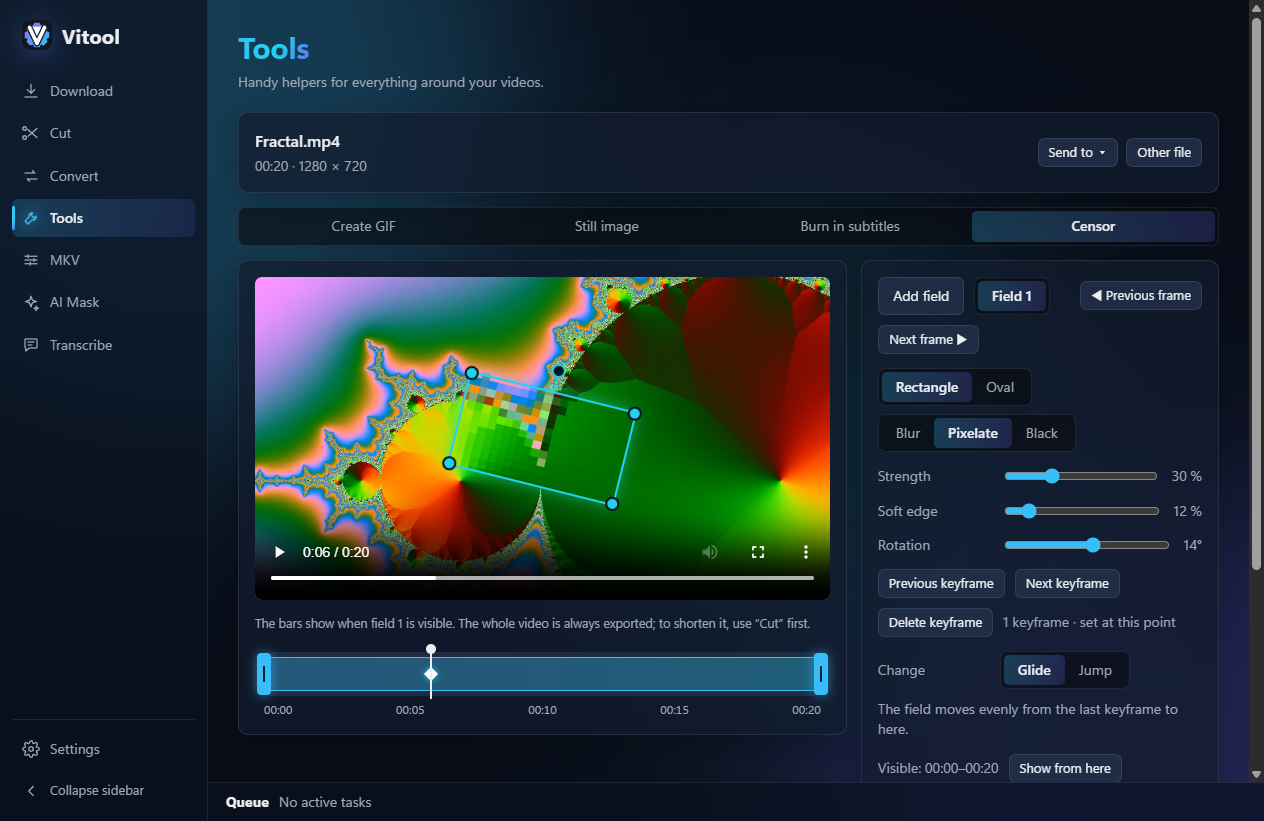
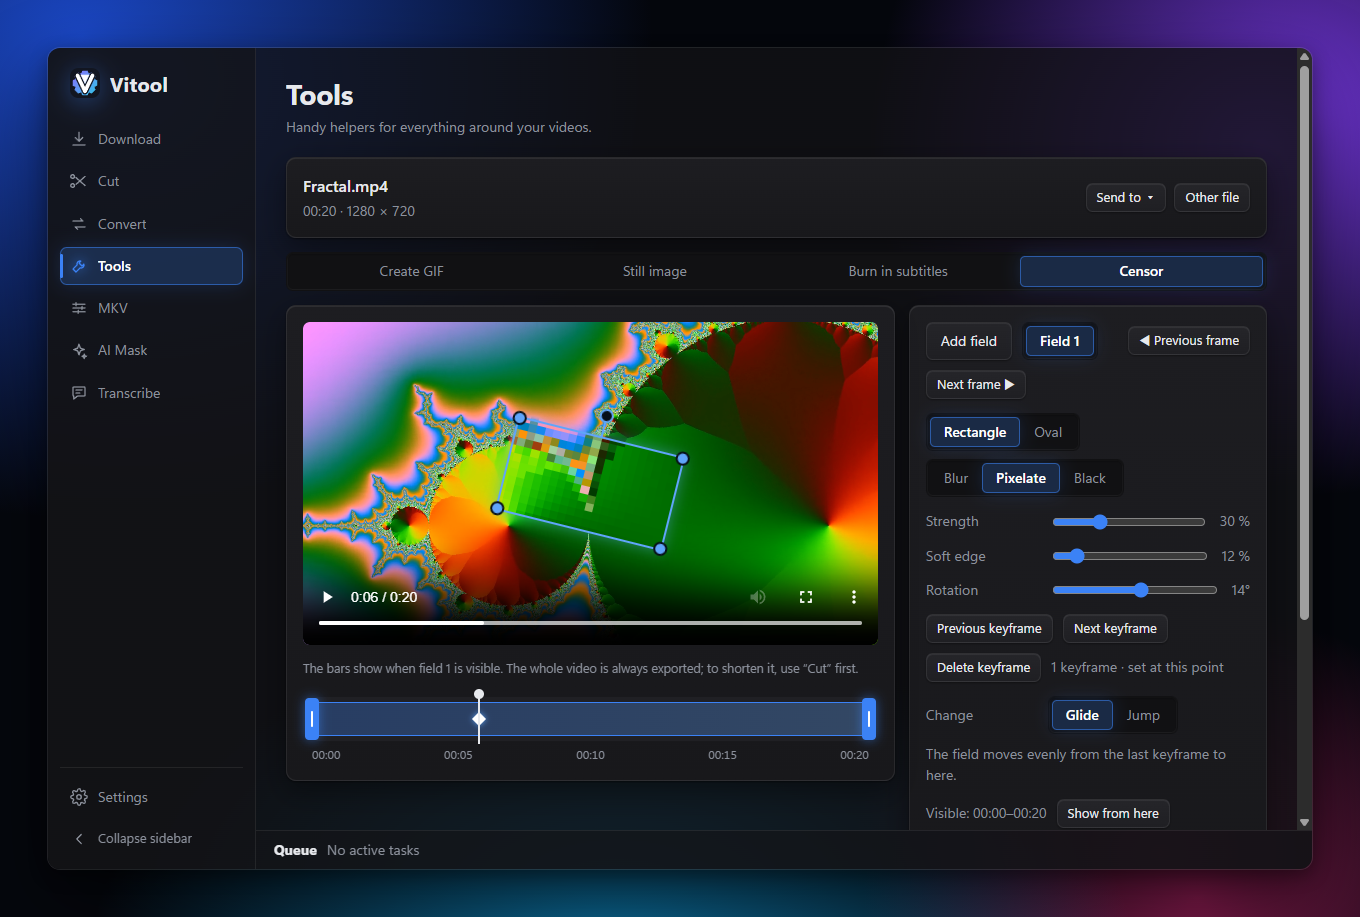
Studio as default theme with a subtle glass effect
- New Studio theme: neutral dark grey, one blue accent, depth from light edges and shadows
- Studio is the default for everyone who has not picked a theme yet
- Subtle glass effect on Windows 11 (Acrylic), on by default and can be turned off in the settings
- Page titles plain in all themes, without gradient
- Theme picker fits seven themes in one row
- README screenshots retaken in Studio, as a window on a colored background

diff --git a/src/renderer/styles/themes.css b/src/renderer/styles/themes.css
@@ -1,6 +1,126 @@
 /* Farbschemata. Die Grundwerte in theme.css und effects.css sind Aurora, hier stehen die Abweichungen.
-   Standard für neue Nutzer ist Ozean (DEFAULT_THEME in src/renderer/utils/themes.js).
+   Standard für neue Nutzer ist Studio (DEFAULT_THEME in src/renderer/utils/themes.js).
    Neue Themes: Block anlegen und in src/renderer/utils/themes.js eintragen. */
+
+/* Studio, der Standard: fast schwarz, feine Linien, eine blaue Akzentfarbe.
+   Keine Farbverläufe und kein Leuchten, Hervorhebungen nur durch Akzent und Lichtkante. */
+:root[data-theme='studio'] {
+  --bg: #111113;
+  --surface: #18181b;
+  --surface-2: #202024;
+  --border: rgba(255, 255, 255, 0.075);
+  --line: #ffffff;
+  --well: #131315;
+  --chrome: #141416;
+  --menu: #1b1b1f;
+  --text: #e7e9ed;
+  --muted: #8c919c;
+  --accent: #3b82f6;
+  --accent-text: #ffffff;
+  --accent-2: #60a5fa;
+  --accent-3: #3b82f6;
+  --on-accent: #ffffff;
+  --accent-soft: color-mix(in srgb, #3b82f6 16%, transparent);
+  --gradient: linear-gradient(var(--accent), var(--accent));
+  --glow: 0 1px 0 rgba(255, 255, 255, 0.12) inset;
+}
+
+/* Statt bunter Farbflächen nur ein schwacher blauer Schein oben. */
+:root[data-theme='studio'] .aurora {
+  display: none;
+}
+
+:root[data-theme='studio'] body {
+  background: radial-gradient(1100px 420px at 75% -12%, rgba(59, 130, 246, 0.07), transparent 70%), var(--bg);
+}
+
+/* Drei Ebenen für Tiefe: Erhöhte Flächen sind heller, mit Lichtkante und Schatten.
+   Eingaben liegen dunkler und eingelassen darin. Hervorgehobenes trägt eine klare blaue Fläche. */
+:root[data-theme='studio'] {
+  --raised: linear-gradient(180deg, #1d1d21 0%, #18181b 100%);
+  --raised-edge: inset 0 1px 0 rgba(255, 255, 255, 0.07);
+  --raised-shadow: 0 1px 2px rgba(0, 0, 0, 0.5), 0 10px 28px rgba(0, 0, 0, 0.38);
+  --sunken: #111113;
+  --sunken-edge: inset 0 1px 2px rgba(0, 0, 0, 0.55), inset 0 0 0 1px rgba(255, 255, 255, 0.05);
+  --highlight: color-mix(in srgb, #3b82f6 22%, transparent);
+  --highlight-edge: inset 0 0 0 1px color-mix(in srgb, #3b82f6 55%, transparent), 0 0 18px color-mix(in srgb, #3b82f6 18%, transparent);
+}
+
+:root[data-theme='studio'] .card,
+:root[data-theme='studio'] .dropzone,
+:root[data-theme='studio'] .feature-card,
+:root[data-theme='studio'] .theme-tile {
+  backdrop-filter: none;
+  background: var(--raised);
+  box-shadow: var(--raised-edge), var(--raised-shadow);
+}
+
+:root[data-theme='studio'] .feature-card.action:hover,
+:root[data-theme='studio'] .theme-tile:hover {
+  border-color: color-mix(in srgb, #3b82f6 45%, transparent);
+  box-shadow: var(--raised-edge), 0 14px 34px rgba(0, 0, 0, 0.45), 0 0 0 1px color-mix(in srgb, #3b82f6 25%, transparent);
+}
+
+:root[data-theme='studio'] .sidebar,
+:root[data-theme='studio'] .queue {
+  backdrop-filter: none;
+}
+
+/* Vertieft: Eingaben, Auswahlfelder und Umschalter. */
+:root[data-theme='studio'] .input,
+:root[data-theme='studio'] .segments {
+  background: var(--sunken);
+  border-color: transparent;
+  box-shadow: var(--sunken-edge);
+}
+
+/* Hervorgehoben: aktiver Bereich, gewählte Option, gewähltes Theme. */
+:root[data-theme='studio'] .nav-item.active {
+  background: var(--highlight);
+  box-shadow: var(--highlight-edge);
+  color: #ffffff;
+}
+
+:root[data-theme='studio'] .nav-item.active svg {
+  color: #93c5fd;
+}
+
+:root[data-theme='studio'] .segment.active {
+  background: var(--highlight);
+  box-shadow: var(--highlight-edge);
+  color: #ffffff;
+}
+
+:root[data-theme='studio'] .theme-tile.active {
+  border-color: #3b82f6;
+  box-shadow: var(--raised-edge), var(--highlight-edge);
+}
+
+:root[data-theme='studio'] .button.primary {
+  box-shadow: inset 0 1px 0 rgba(255, 255, 255, 0.28), 0 6px 18px color-mix(in srgb, #3b82f6 35%, transparent);
+}
+
+:root[data-theme='studio'] .button.primary:hover:not(:disabled) {
+  box-shadow: inset 0 1px 0 rgba(255, 255, 255, 0.32), 0 8px 24px color-mix(in srgb, #3b82f6 45%, transparent);
+  filter: brightness(1.08);
+}
+
+:root[data-theme='studio'] .button:not(.primary) {
+  background: linear-gradient(180deg, #252529, #1f1f23);
+  box-shadow: inset 0 1px 0 rgba(255, 255, 255, 0.06), 0 1px 2px rgba(0, 0, 0, 0.4);
+}
+
+:root[data-theme='studio'] .drop-icon {
+  background: var(--highlight);
+  box-shadow: var(--highlight-edge);
+  color: #93c5fd;
+}
+
+:root[data-theme='studio'] .dropzone:hover,
+:root[data-theme='studio'] .dropzone.over {
+  border-color: color-mix(in srgb, #3b82f6 55%, transparent);
+  box-shadow: var(--raised-edge), var(--raised-shadow), 0 0 0 1px color-mix(in srgb, #3b82f6 25%, transparent);
+}
 
 :root[data-theme='ocean'] {
   --bg: #080d18;
@@ -77,4 +197,24 @@
 
 :root[data-theme='light'] .aurora span {
   opacity: 0.14;
+}
+
+/* Dezenter Glas-Effekt: Das Fenster liefert unter Windows 11 "Mica", also das weichgezeichnete
+   Hintergrundbild. Durchlässig sind nur der Seitenhintergrund und die Leisten, und auch die nur
+   zu einem kleinen Teil. Karten, Eingaben und Video bleiben fest, damit nichts unruhig wird. */
+:root[data-glass] {
+  background: transparent;
+}
+
+:root[data-glass] body {
+  background: color-mix(in srgb, var(--bg) 66%, transparent);
+}
+
+:root[data-glass] .aurora {
+  display: none;
+}
+
+:root[data-glass] .sidebar,
+:root[data-glass] .queue {
+  background: color-mix(in srgb, var(--chrome) 62%, transparent);
 }

diff --git a/src/main/main.js b/src/main/main.js
@@ -1,7 +1,7 @@
 // Startpunkt der App: öffnet das Fenster und verbindet Oberfläche und Hintergrund.
 const path = require('path');
 const fs = require('fs/promises');
-const { app, BrowserWindow, dialog, ipcMain, shell } = require('electron');
+const { app, BrowserWindow, dialog, ipcMain, nativeTheme, shell } = require('electron');
 
 const { Store } = require('./core/store');
 const { JobQueue } = require('./core/job-queue');
@@ -32,6 +32,11 @@ const features = [
 ];
 
 let win = null;
+
+// Glas ist Standard. Nur wer es ausdrücklich abschaltet, bekommt das feste Fenster.
+function glassOn(value) {
+  return value !== false && value !== 'off';
+}
 
 function createWindow() {
   win = new BrowserWindow({
@@ -93,7 +98,7 @@ app.whenReady().then(() => {
 
   ipcMain.on('i18n:get', (event) => {
     // Das Farbschema kommt gleich mit, damit beim Start nichts im falschen Design aufblitzt.
-    event.returnValue = { language: currentLanguage(), strings: translations(), languages: LANGUAGES, theme: store.get('settings').theme ?? 'ocean' };
+    event.returnValue = { language: currentLanguage(), strings: translations(), languages: LANGUAGES, theme: store.get('settings').theme ?? 'studio', glass: glassOn(store.get('settings').glass) };
   });
   // Ein Sprachwechsel startet Vitool neu, damit wirklich jeder Text in der neuen Sprache erscheint.
   ipcMain.handle('app:setLanguage', (_event, language) => {
@@ -102,6 +107,16 @@ app.whenReady().then(() => {
     if (queue.list().some((job) => job.status === 'running' || job.status === 'queued')) return { ok: true, restartLater: true };
     app.relaunch();
     app.exit(0);
+    return { ok: true };
+  });
+  // Glas unter Windows 11: "Acrylic" zeigt die Fenster hinter Vitool verschwommen.
+  // Windows tönt es hell oder dunkel, passend zum Theme.
+  ipcMain.handle('app:setGlass', (_event, on, light = false) => {
+    store.set('settings', { ...store.get('settings'), glass: Boolean(on) });
+    if (!win || process.platform !== 'win32') return { ok: false };
+    nativeTheme.themeSource = on ? (light ? 'light' : 'dark') : 'system';
+    win.setBackgroundColor(on ? '#00000000' : '#101216');
+    win.setBackgroundMaterial(on ? 'acrylic' : 'none');
     return { ok: true };
   });
   ipcMain.handle('app:restart', () => {

diff --git a/src/renderer/pages/settings.js b/src/renderer/pages/settings.js
@@ -1,7 +1,7 @@
 // Bereich Einstellungen: Sprache, Standard-Download-Ordner und Infos zu Vitool.
 import { el, pageHeader } from '../utils/dom.js';
 import { t, LANGUAGE } from '../utils/i18n.js';
-import { THEMES, applyTheme } from '../utils/themes.js';
+import { THEMES, applyTheme, applyGlass } from '../utils/themes.js';
 import { showLicenses } from '../components/license-dialog.js';
 
 const invoke = (...args) => window.vitool.invoke(...args);
@@ -32,6 +32,8 @@ async function changeLanguage(language) {
 // Ein Theme wirkt sofort, ohne Neustart.
 async function chooseTheme(id) {
   const theme = applyTheme(id);
+  // Mit Glas muss Windows erfahren, ob das neue Theme hell oder dunkel ist.
+  if (document.documentElement.hasAttribute('data-glass')) applyGlass(true);
   parts.themes.forEach((tile) => {
     const active = tile.dataset.theme === theme;
     tile.classList.toggle('active', active);
@@ -159,6 +161,11 @@ function buildPage(root) {
     tools: el('div', { class: 'stack' }),
     update: el('div', { class: 'stack' }),
     licenseRoot: el('div', {}),
+    glass: el('input', {
+      type: 'checkbox',
+      checked: document.documentElement.hasAttribute('data-glass'),
+      onchange: (event) => applyGlass(event.target.checked),
+    }),
     language: el('select', {
       class: 'input',
       'aria-label': t('Sprache'),
@@ -184,6 +191,8 @@ function buildPage(root) {
     el('section', { class: 'card stack' },
       el('h2', {}, t('Design')),
       el('div', { class: 'theme-grid', role: 'group', 'aria-label': t('Farbschema') }, ...parts.themes),
+      el('label', { class: 'check' }, parts.glass, el('span', {}, t('Glas-Effekt'))),
+      el('p', { class: 'muted' }, t('Was hinter Vitool liegt, schimmert leicht durch den Hintergrund. Nur unter Windows 11.')),
     ),
     el('section', { class: 'card stack' },
       el('h2', {}, t('Downloads')),

diff --git a/src/renderer/utils/themes.js b/src/renderer/utils/themes.js
@@ -3,6 +3,7 @@
 import { t } from './i18n.js';
 
 export const THEMES = [
+  { id: 'studio', name: 'Studio', colors: ['#111113', '#3b82f6', '#60a5fa', '#e7e9ed'] },
   { id: 'ocean', name: t('Ozean'), colors: ['#080d18', '#38bdf8', '#22d3ee', '#6366f1'] },
   { id: 'aurora', name: 'Aurora', colors: ['#0b0e14', '#3ddc97', '#2fc6e8', '#8b6cff'] },
   { id: 'sunset', name: t('Sonnenuntergang'), colors: ['#120b10', '#fb923c', '#f472b6', '#a855f7'] },
@@ -11,8 +12,14 @@ export const THEMES = [
   { id: 'light', name: t('Hell'), colors: ['#eef1f6', '#0d9f6e', '#0891b2', '#7c3aed'] },
 ];
 
-// Ozean ist der Standard für alle, die noch kein Theme gewählt haben.
-export const DEFAULT_THEME = 'ocean';
+// Studio ist der Standard für alle, die noch kein Theme gewählt haben.
+export const DEFAULT_THEME = 'studio';
+
+// Glas: Die Seite lässt ihren Hintergrund leicht durchscheinen, das Fenster liefert Acrylic.
+export function applyGlass(on) {
+  document.documentElement.toggleAttribute('data-glass', on);
+  window.vitool.invoke('app:setGlass', on, document.documentElement.dataset.theme === 'light');
+}
 
 export function applyTheme(id) {
   const theme = THEMES.some((entry) => entry.id === id) ? id : DEFAULT_THEME;

diff --git a/src/renderer/styles/effects.css b/src/renderer/styles/effects.css
@@ -148,14 +148,12 @@ body {
   margin-bottom: 20px;
 }
 
+/* Schlicht in Schriftfarbe: Ein Farbverlauf im Titel wirkte zu verspielt. */
 .page-header h1 {
-  background: var(--gradient);
-  -webkit-background-clip: text;
-  background-clip: text;
-  color: transparent;
-  font-size: 30px;
-  font-weight: 750;
-  letter-spacing: -0.4px;
+  color: var(--text);
+  font-size: 28px;
+  font-weight: 650;
+  letter-spacing: -0.3px;
   margin: 0 0 2px;
   width: fit-content;
 }
@@ -345,7 +343,7 @@ body {
 .theme-grid {
   display: grid;
   gap: 10px;
-  grid-template-columns: repeat(auto-fill, minmax(130px, 1fr));
+  grid-template-columns: repeat(auto-fill, minmax(108px, 1fr));
 }
 
 .theme-tile {

diff --git a/src/renderer/app.js b/src/renderer/app.js
@@ -14,9 +14,10 @@ import { el, icon } from './utils/dom.js';
 import { setupSidebar } from './components/sidebar.js';
 import { ICONS } from './utils/icons.js';
 import { setNavigator } from './utils/navigation.js';
-import { applyTheme } from './utils/themes.js';
+import { applyTheme, applyGlass } from './utils/themes.js';
 
 applyTheme(window.vitool.i18n.theme);
+if (window.vitool.i18n.glass) applyGlass(true);
 
 // Neue Bereiche: Seite anlegen und hier eintragen.
 const pages = [downloadPage, cutPage, convertPage, toolsPage, mkvPage, aiPage, transcribePage, settingsPage];

diff --git a/src/main/preload.js b/src/main/preload.js
@@ -71,6 +71,7 @@ const INVOKE_CHANNELS = [
   'app:restart',
   'app:info',
   'app:licenses',
+  'app:setGlass',
 ];
 
 const EVENT_CHANNELS = ['queue:update', 'download:historyChanged', 'app:openInCut', 'ai:statusChanged', 'transcribe:statusChanged', 'update:status'];

diff --git a/README.md b/README.md
@@ -64,7 +64,7 @@
 ![Transcription with two speakers](docs/screenshots/transcribe.png)
 
 ### And also
-- Six color themes, English and German interface
+- Seven color themes with a subtle glass effect on Windows 11, English and German interface
 - Send a file from one area to the next, for example from Download to Cut
 - Updates from GitHub with one click in the settings
 
